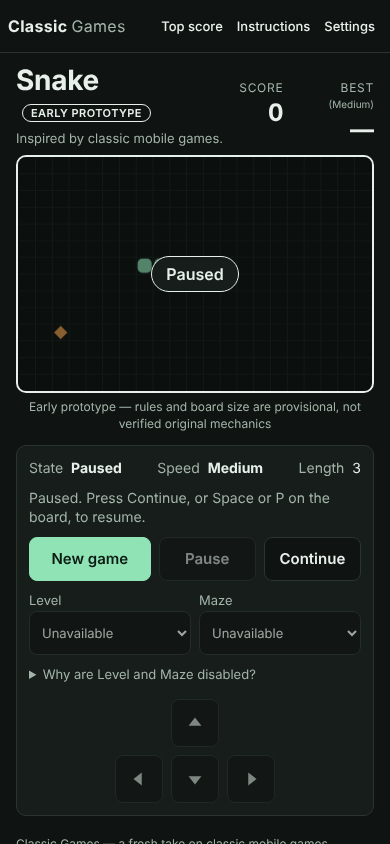
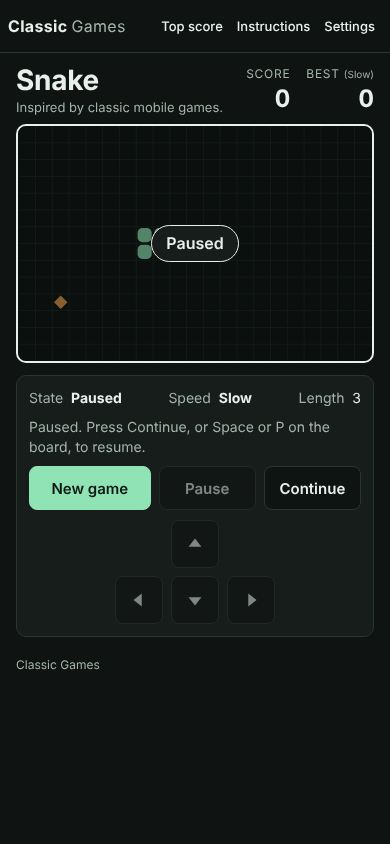
Refresh playable screenshots and layout numbers in docs
Claude-Session: https://claude.ai/code/session_01Cu8tbykJeN6D3ngV2zuDRR

diff --git a/docs/PLAYABLE_PROTOTYPE.md b/docs/PLAYABLE_PROTOTYPE.md
@@ -66,15 +66,15 @@ Open `index.html` in a browser (works from `file://`; scripts are plain deferred
 | - preference failure: throwing storage keeps the choice for the session with "Not saved on this device"; invalid stored speed falls back to Slow | pass |
 | - Settings dialog at 320×568 (Colour, Night), 390×844 (LCD), 768×1024, 1366×768: dialog inside the viewport, radios and Close at least 44 px high, Close reachable (the dialog scrolls when taller than 90% of the viewport), touch tap selects Fast, no console errors | pass |
 | Responsive sweep (`sweep.js`): 320×568, 390×844, 768×1024, 1366×768, 1440×900 × Colour/LCD/Night, menu and paused states | no console errors, no horizontal overflow, enabled buttons at least 44×44, no header/score overlap |
-| 390×844 fit with the new Speed readout | board and D-pad inside the viewport (D-pad bottom 803 of 844) |
+| 390×844 fit | board and D-pad inside the viewport (D-pad bottom 624 of 844, after the disabled Level and Maze controls were removed) |
 | 1366×768, 1440×900 | no page scroll |
 | Contrast, computed from theme variables for all themes | 0 failures; palette unchanged |
-| Size: HTML+CSS+JS gzip (5 files) | about 13.8 KB |
+| Size: HTML+CSS+JS gzip (5 files) | about 13.1 KB |
 
 ## Limits
 - Chromium only. Safari, Firefox, real phones, screen readers and real device touch/haptics were **not** tested. "Touch" tests use Playwright's touch emulation.
 - Timing was checked by tick counts against elapsed time, not by perceived latency on a real device.
-- At 320×568 and 768×1024 the page scrolls vertically and the D-pad is below the fold at 320×568 (unchanged from the UI prototype).
+- At 320×568 the page scrolls vertically: the D-pad ends at 597 px on a 568 px viewport, so it is slightly below the fold.
 - No test of audio/haptics (not implemented), resize during play, or orientation change beyond layout sweeps.
 - Game feel, speed and difficulty are untuned development guesses.
 - `docs/UI_PROTOTYPE.md` and the older screenshots describe the earlier non-playable preview; `docs/screenshots/playable-*.png` show the playable build (paused mid-run) and the Settings dialog.
